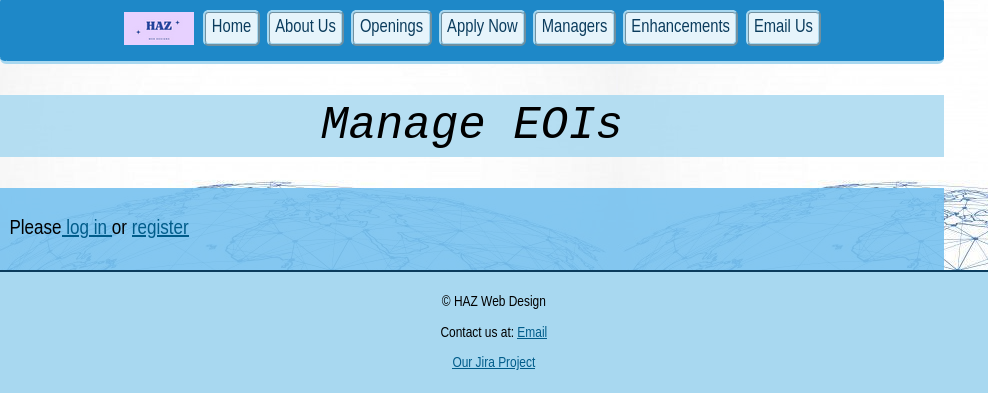
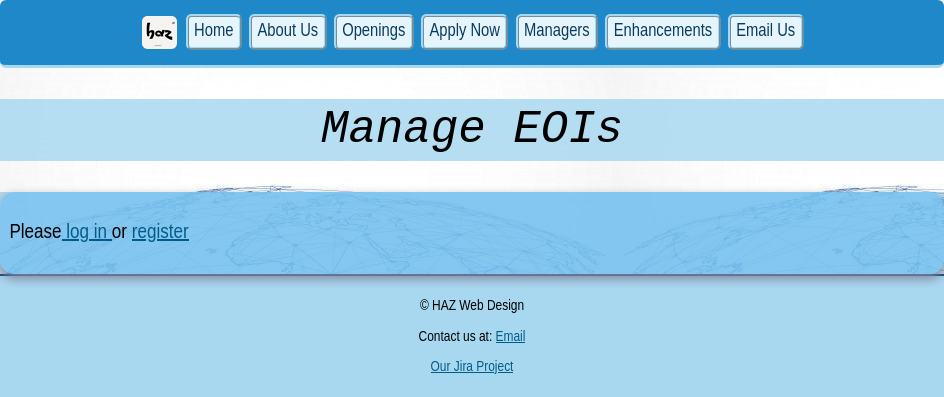
css tweaks for consistency in styles

diff --git a/project2/styles/styles.css b/project2/styles/styles.css
@@ -49,9 +49,13 @@ h1{
 article, aside{
     background-color: #7ac4f1d7;
 padding: 1%;
+
 }
 article{
     position: relative;
+        border-radius: 0.7em;
+    box-shadow: 0 5px 10px #8185a3; 
+
 }
 
 article::before{
@@ -241,11 +245,11 @@ figure figcaption {
     float: right;
 }
 .services {
-    background-color: #7ac4f1; 
+    background-color: #7ac4f1d7; 
     padding: 2em;
     margin: 2em auto;
     border-radius: 0.7em;
-    box-shadow: 0 5px 15px #888888; 
+    box-shadow: 0 5px 15px #51546d; 
 }
 
 .services h2 {
@@ -275,7 +279,7 @@ figure figcaption {
     flex: 0 0 30%;
     text-align: center;
     font-weight: bold;
-    box-shadow: 0 3px 8px #888888; 
+    box-shadow: 0 3px 8px #51546d; 
     transition: transform 0.3s, background 0.3s;
 }
 

diff --git a/project2/enhancements.php b/project2/enhancements.php
@@ -20,15 +20,15 @@
                 <li><a href="#login">Manager Login</a></li>
             </ol>
             <div class="flexb">
-    <figure>
+    <figure id="sort" >
         <img src="images/managesort.png"  class="e" alt="Sorting EOIs">
         <figcaption>Managers are able to sort records on manage.php by various parameters, such as name and reference number.</figcaption>
     </figure>
-    <figure>
+    <figure id="register" >
         <img src="images/register.png"  class="e" alt="Manager Registration">
         <figcaption>Managers can register accounts through register.php, and their details will be stored in our database.</figcaption>
     </figure>
-    <figure>
+    <figure id="login">
         <img src="images/plzlogin.png"  class="e" alt="Manager Login">
         <figcaption>Managers can only access the contents of manage.php if they are logged in to their accounts</figcaption>
     </figure>
